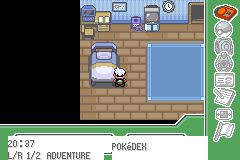
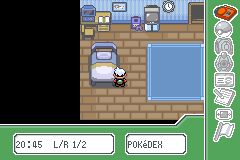
Fit menu footer text to artwork without oversized white windows

Changed region(s): [[0.4667, 0.8438, 0.875, 1.0], [0.0292, 0.8438, 0.4375, 1.0]]

diff --git a/src/custom_start_menu.c b/src/custom_start_menu.c
@@ -32,12 +32,36 @@ ANIM(0) ANIM(1) ANIM(2) ANIM(3) ANIM(4) ANIM(5) ANIM(6) ANIM(7)
 ANIM(8) ANIM(9) ANIM(10) ANIM(11) ANIM(12) ANIM(13) ANIM(14) ANIM(15)
 static const union AnimCmd *const sAnims[]={sAnim0,sAnim1,sAnim2,sAnim3,sAnim4,sAnim5,sAnim6,sAnim7,sAnim8,sAnim9,sAnim10,sAnim11,sAnim12,sAnim13,sAnim14,sAnim15};
 static const struct SpriteTemplate sTemplate={.tileTag=ICON_TAG,.paletteTag=ICON_TAG,.oam=&sOam,.anims=sAnims,.images=NULL,.affineAnims=gDummySpriteAffineAnimTable,.callback=SpriteCallbackDummy};
-static EWRAM_DATA struct {u8 sprites[8],icons[8],count,clock,label;} *sCustomMenu=NULL;
-static const struct WindowTemplate sClockWin={.bg=0,.tilemapLeft=1,.tilemapTop=17,.width=12,.height=3,.paletteNum=15,.baseBlock=0x30};
-static const struct WindowTemplate sLabelWin={.bg=0,.tilemapLeft=14,.tilemapTop=17,.width=12,.height=3,.paletteNum=15,.baseBlock=0x54};
+static EWRAM_DATA struct {u8 sprites[8],icons[8],count,clock,label;u16 backdrops[2][36];} *sCustomMenu=NULL;
+static const struct WindowTemplate sClockWin={.bg=0,.tilemapLeft=2,.tilemapTop=17,.width=12,.height=2,.paletteNum=14,.baseBlock=0x30};
+static const struct WindowTemplate sLabelWin={.bg=0,.tilemapLeft=16,.tilemapTop=17,.width=10,.height=2,.paletteNum=14,.baseBlock=0x48};
 bool32 CustomStartMenu_IsActive(void){return sCustomMenu!=NULL;}
 u8 CustomStartMenu_GetTheme(void){u16 value=VarGet(VAR_LEGENDS_MENU_THEME);return value<LEGENDS_MENU_THEME_COUNT?value:0;}
 void CustomStartMenu_SetTheme(u8 theme){VarSet(VAR_LEGENDS_MENU_THEME,theme<LEGENDS_MENU_THEME_COUNT?theme:0);}
+// Restore the exact footer pixels under each window instead of painting a rectangle.
+static void RestoreFooter(u8 win, u8 backdrop)
+{
+    u8 tiles[1024], tile[32];
+    u32 i,x,y;
+    DecompressDataWithHeaderWram(sTiles,tiles);
+    for(i=0;i<GetWindowAttribute(win,WINDOW_WIDTH)*GetWindowAttribute(win,WINDOW_HEIGHT);i++)
+    {
+        u32 width=GetWindowAttribute(win,WINDOW_WIDTH);
+        u16 entry=sCustomMenu->backdrops[backdrop][i];
+        u32 index=entry&0x3FF;
+        if(index>=32)index=0;
+        for(y=0;y<8;y++)for(x=0;x<8;x+=2)
+        {
+            u32 a=(entry&0x400)?7-x:x, b=(entry&0x400)?6-x:x+1;
+            u32 sy=(entry&0x800)?7-y:y;
+            u8 pa=tiles[index*32+sy*4+a/2]>>((a&1)*4)&15;
+            u8 pb=tiles[index*32+sy*4+b/2]>>((b&1)*4)&15;
+            tile[y*4+x/2]=pa|(pb<<4);
+        }
+        BlitBitmapToWindow(win,tile,(i%width)*8,(i/width)*8,8,8);
+    }
+}
+static const u8 sFooterColors[]={TEXT_COLOR_TRANSPARENT,1,5};
 void CustomStartMenu_Select(u8 cursor,const u8 *label)
 {
     u32 i;
@@ -45,8 +69,8 @@ void CustomStartMenu_Select(u8 cursor,const u8 *label)
     for(i=0;i<sCustomMenu->count;i++)
         if(sCustomMenu->sprites[i]!=MAX_SPRITES)
             StartSpriteAnim(&gSprites[sCustomMenu->sprites[i]],sCustomMenu->icons[i]+(i==cursor?0:sCustomMenu->icons[i]==14?1:7));
-    FillWindowPixelBuffer(sCustomMenu->label,PIXEL_FILL(1));
-    AddTextPrinterParameterized(sCustomMenu->label,FONT_SMALL,label,0,3,TEXT_SKIP_DRAW,NULL);
+    RestoreFooter(sCustomMenu->label,1);
+    AddTextPrinterParameterized4(sCustomMenu->label,FONT_SMALL,0,1,0,0,sFooterColors,TEXT_SKIP_DRAW,label);
     CopyWindowToVram(sCustomMenu->label,COPYWIN_FULL);
 }
 bool32 CustomStartMenu_Open(const u8 *icons,u8 count,u8 cursor,const u8 *label,u8 page)
@@ -60,6 +84,8 @@ bool32 CustomStartMenu_Open(const u8 *icons,u8 count,u8 cursor,const u8 *label,u
     if(sCustomMenu->clock==WINDOW_NONE || sCustomMenu->label==WINDOW_NONE){CustomStartMenu_Close();return FALSE;}
     DecompressAndCopyTileDataToVram(0,sTiles,0,0,0);
     DecompressDataWithHeaderWram(sMap,GetBgTilemapBuffer(0));
+    for(i=0;i<24;i++)sCustomMenu->backdrops[0][i]=((u16 *)GetBgTilemapBuffer(0))[(17+i/12)*32+2+i%12];
+    for(i=0;i<20;i++)sCustomMenu->backdrops[1][i]=((u16 *)GetBgTilemapBuffer(0))[(17+i/10)*32+16+i%10];
     LoadPalette(sPalettes[CustomStartMenu_GetTheme()],BG_PLTT_ID(14),PLTT_SIZE_4BPP);
     LoadPalette(gStandardMenuPalette,BG_PLTT_ID(15),PLTT_SIZE_4BPP);
     LoadCompressedSpriteSheet(&sSheet);LoadSpritePalette(&sPal);
@@ -71,9 +97,9 @@ bool32 CustomStartMenu_Open(const u8 *icons,u8 count,u8 cursor,const u8 *label,u
         if(sCustomMenu->sprites[i]==MAX_SPRITES){CustomStartMenu_Close();return FALSE;}
     }
     RtcCalcLocalTime();p=ConvertIntToDecimalStringN(time,gLocalTime.hours,STR_CONV_MODE_LEADING_ZEROS,2);*p++=CHAR_COLON;ConvertIntToDecimalStringN(p,gLocalTime.minutes,STR_CONV_MODE_LEADING_ZEROS,2);
-    FillWindowPixelBuffer(sCustomMenu->clock,PIXEL_FILL(1));
-    AddTextPrinterParameterized(sCustomMenu->clock,FONT_SMALL,time,0,0,TEXT_SKIP_DRAW,NULL);
-    AddTextPrinterParameterized(sCustomMenu->clock,FONT_SMALL,page?COMPOUND_STRING("L/R 2/2  SERVICES"):COMPOUND_STRING("L/R 1/2  ADVENTURE"),0,12,TEXT_SKIP_DRAW,NULL);
+    RestoreFooter(sCustomMenu->clock,0);
+    AddTextPrinterParameterized4(sCustomMenu->clock,FONT_SMALL,0,1,0,0,sFooterColors,TEXT_SKIP_DRAW,time);
+    AddTextPrinterParameterized4(sCustomMenu->clock,FONT_SMALL,38,1,0,0,sFooterColors,TEXT_SKIP_DRAW,page?COMPOUND_STRING("L/R 2/2"):COMPOUND_STRING("L/R 1/2"));
     PutWindowTilemap(sCustomMenu->clock);PutWindowTilemap(sCustomMenu->label);CopyWindowToVram(sCustomMenu->clock,COPYWIN_FULL);
     CustomStartMenu_Select(cursor,label);ScheduleBgCopyTilemapToVram(0);return TRUE;
 }

diff --git a/docs/features/custom-start-menu/README.md b/docs/features/custom-start-menu/README.md
@@ -17,3 +17,7 @@ Rotom Phone was evaluated but is not installed. Quest icons, new quests and the 
 ## Validation
 
 108 native feature checks cover all four colors in both storage modes, actual Options input, theme save/load persistence, save cancellation, Journal handoff and repeated resource cleanup. A further 446 native Start-menu regressions cover unlock combinations, cycling, repeated B input, submenu returns and control release. All 554 pass on the same ROM hash. Screenshots and pinned reports are alongside this file. Player SRAM is never used by tests.
+
+## Footer correction
+
+The text windows now preserve the exact underlying footer tile pixels, including flips, instead of filling oversized white rectangles. Clock and page hint share a single line within the left panel; the current app name uses the right panel. Footer text uses the active frame palette and transparent glyph background. All four themes and all 554 existing native checks pass after the correction.
